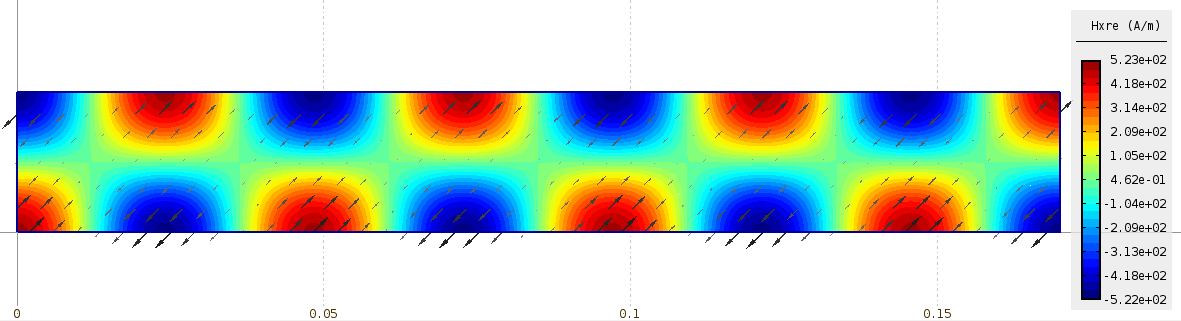
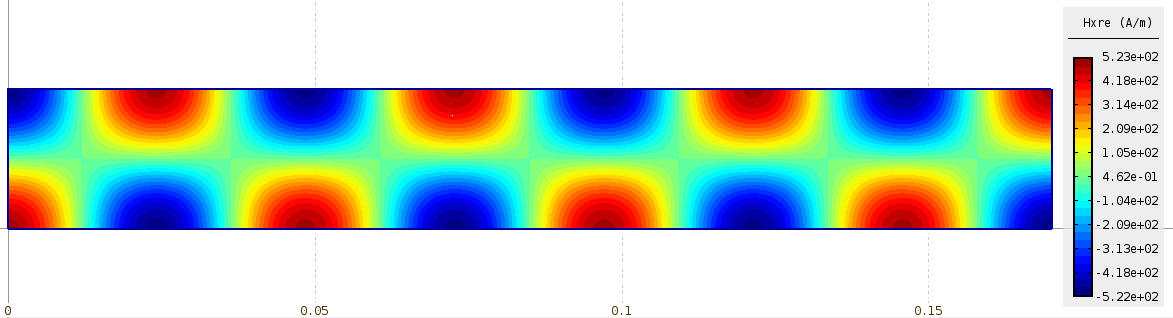
some figures changed to black and white, fix poynting vector in chapter simulation

diff --git a/Priloha3-kod.tex b/Priloha3-kod.tex
@@ -70,19 +70,30 @@ add_vector_form(new WeakFormsH1::VolumetricVectorForms::DefaultVectorFormConst(1
 Při řešení problémů vztahující se k~elektromagnetickému poli je možné použít na řešenou oblast několik typů okrajových podmínek, které se volí v~dialogu \uv{new boundary condition}. 
 
 \subsection*{Elektrické pole}
-Programový kód, který přísluší k~zadáni Dirichletovy podmínky na hranici $\Gamma$, je v~modulu zapsán následovně
+Programový kód, který přísluší k~zadáni Dirichletovy podmínky na hranici $\Gamma$, představuje v~modulu implementaci pomocí Dirichletova zdvihu.
+Řešení se nejprve formálně provede pro nulovou okrajovou podmínku. Poté se na pravou stranu rovnice matice tuhosti pronásobená zadanou
+hodnotou. 
 \begin{verbatim}
-if (boundary->type == PhysicFieldBC_RF_ElectricField)
-{
-    bc1.add_boundary_condition(new DefaultEssentialBCConst
-               (QString::number(i+1).toStdString(), boundary->value_real.number));
-    bc2.add_boundary_condition(new DefaultEssentialBCConst
-               (QString::number(i+1).toStdString(), boundary->value_imag.number));
-}
+EssentialBCs bc_1;
+EssentialBCs bc_2;
+
+bc_1.add_boundary_condition(new
+DefaultEssentialBCConst(QString::number(i+1).toStdString(),
+boundary->value_real.number));
+
+bc_2.add_boundary_condition(new
+DefaultEssentialBCConst(QString::number(i+1).toStdString(),
+boundary->value_real.number));
+
+initialPolynomialOrder = 1;
+
+Hermes::vector<Space *> space;
+space.push_back(new H1Space(mesh, bc_1, initialPolynomialOrder));
+space.push_back(new H1Space(mesh, bc_2, initialPolynomialOrder));
 \end{verbatim}
 
 \subsubsection*{Povrchová proudová hustota}
-Tato volba představuje Neumannovu okrajovou podmínku. Je pro ní potřeba definovat funkci, která vrací lineární formu dané okrajové podmínky
+Tato volba představuje Neumannovu okrajovou podmínku. Je pro ní potřeba registrovat funkci, která vrací lineární formu dané okrajové podmínky
 \begin{verbatim}
 if (boundary->type == PhysicFieldBC_RF_SurfaceCurrent)
 {
@@ -91,6 +102,7 @@ if (boundary->type == PhysicFieldBC_RF_SurfaceCurrent)
                 QString::number(i + 1).toStdString(),
                 - 2 * M_PI * Util::scene()->problemInfo()->frequency * boundary->value_imag.number,
                 HERMES_PLANAR));
+                
     if (fabs(boundary->value_real.number) > EPS_ZERO)
         add_vector_form_surf(new WeakFormsH1::SurfaceVectorForms::DefaultVectorFormSurf(1,
                 QString::number(i + 1).toStdString(),
@@ -135,19 +147,6 @@ class CustomMatrixFormSurfMatchedBoundary : public WeakForm::MatrixFormSurf
       return coeff * sqrt((eps - conductivity / frequency) / mu) * 
                               int_u_v<double, scalar>(n, wt, u, v);
     }
-
-    virtual Ord ord(int n, double *wt, Func<Ord> *u_ext[], Func<Ord> *u,
-                        Func<Ord> *v, Geom<Ord> *e, ExtData<Ord> *ext) const {
-    
-      return int_u_v<Ord, Ord>(n, wt, u, v);
-    }
-
-        // This is to make the form usable in rk_time_step().
-    virtual WeakForm::MatrixFormSurf* clone() {
-
-      return new CustomMatrixFormSurfMatchedBoundary(*this);
-    }
-
     private:
         scalar coeff, frequency;
 };
@@ -232,7 +231,7 @@ case PhysicFieldVariable_RF_PoyntingVectorX:
     SceneMaterialRF *marker = dynamic_cast<SceneMaterialRF *>(material);
     double mu = marker->permeability.number * MU0;
     double w = 2 * M_PI * Util::scene()->problemInfo()->frequency;
-    node->values[0][0][i] = - 0.5 * ((value2[i] * 1/(w*mu) * dudx1[i]) 
+    node->values[0][0][i] = 0.5 * ((value2[i] * 1/(w*mu) * dudx1[i]) 
                                    - (value1[i] * 1/(w*mu) * dudx2[i]));
 }
 case PhysicFieldVariable_RF_PoyntingVectorY:

diff --git a/Simulace.tex b/Simulace.tex
@@ -246,12 +246,12 @@ ze kterého lze vyjádřit $x$-ová a $y$-ová složka magnetické indukce. $\fa
 \end{displaymath}
 kde po dosazení za $\faz E_z$ můžeme vyjádřit reálnou a imaginární složku magnetické indukce ve směru $x$, které lze pak implemetovat do modulu
 \begin{equation}
-	B_{x\Re} = -\frac{1}{\mj\omega}\frac{\partial E_{z\Im}}{\partial y}, \qquad \qquad B_{x\Im} = \frac{1}{\mj\omega}\frac{\partial E_{z\Re}}{\partial y}.
+	B_{x\Re} = -\frac{1}{\omega}\frac{\partial E_{z\Im}}{\partial y}, \qquad \qquad B_{x\Im} = \frac{1}{\omega}\frac{\partial E_{z\Re}}{\partial y}.
 	\label{rce:sim_flux_x_re}
 \end{equation}
 Z~rovnice (\ref{rce:sim_zobrazeni_flux}) je pak dále možné stejným způsobem odvodit vztahy pro obě složky indukce ve směru $y$
 \begin{equation}
-	B_{y\Re} = \frac{1}{\mj\omega}\frac{\partial E_{z\Im}}{\partial x}, \qquad \qquad B_{y\Im} = -\frac{1}{\mj\omega}\frac{\partial E_{z\Re}}{\partial x}.
+	B_{y\Re} = \frac{1}{\omega}\frac{\partial E_{z\Im}}{\partial x}, \qquad \qquad B_{y\Im} = -\frac{1}{\omega}\frac{\partial E_{z\Re}}{\partial x}.
 	\label{rce:sim_flux_y_im}
 \end{equation}
 Nakonec zbývá vyjádřit rozložení modulu magnetické indukce. Pro jeho velikost platí
@@ -284,26 +284,29 @@ Je zřejmé, že $N_z$ je dle výrazu (\ref{rce:sim_poynting_vec_rozepsany}) nul
 \begin{displaymath}
 	\faz N_x = -(E_{z\Re} + \mj E_{z\Im})\cdot (H_{y\Re} + \mj H_{y\Im}),
 \end{displaymath}
-což ve výsledku vede na vztah
 \begin{displaymath}
-	\faz N_x = E_{z\Im} H_{y\Im} - E_{z\Re} H_{y\Re} - \mj (E_{z\Re} H_{y\Im} + E_{z\Im} H_{y\Re}).
+	\faz N_x = - E_{z\Re} H_{y\Re} + E_{z\Im} H_{y\Im} - \mj (E_{z\Re} H_{y\Im} + E_{z\Im} H_{y\Re}).
+\end{displaymath}
+Protože Poyntingův vektor reprezentuje hustotu výkonu elektromagnetického pole, je nutné aby jeho hodnota byla pouze reálné číslo.
+\begin{displaymath}
+	N_x = - E_{z\Re} H_{y\Re} + E_{z\Im} H_{y\Im}.
 \end{displaymath}
 Pro Poyntingův vektor ve směru $y$ analogicky vychází
 \begin{displaymath}
 	\faz N_y = \faz E_z \faz H_x,
 \end{displaymath}
 \begin{displaymath}
-	\faz N_y = E_{z\Re} H_{x\Re} - E_{z\Im} H_{x\Im} + \mj (E_{z\Re} H_{x\Im} + E_{z\Im} H_{x\Re}).
+	N_y = E_{z\Re} H_{x\Re} - E_{z\Im} H_{x\Im}.
 \end{displaymath}
 Pro výslednou hodnotu Poyntingova vektoru na řešené oblasti $\Omega$ platí
 \begin{displaymath}
-	N = \sqrt{N_{x}^{2} + N_{y}^{2}} = \sqrt{(E_{z\Im} H_{y\Im} - E_{z\Re} H_{y\Re})^{2} + (E_{z\Im} H_{x\Im} - E_{z\Re} H_{x\Re})^{2}}.
+	N = \sqrt{N_{x}^{2} + N_{y}^{2}} = \sqrt{(E_{z\Im} H_{y\Im} - E_{z\Re} H_{y\Re})^{2} + (E_{z\Re} H_{x\Re} - E_{z\Im} H_{x\Im})^{2}}.
 \end{displaymath}
 
 \subsection*{Jouleovy ztráty}
 Rozložení ztrát v~řešené oblasti odpovídá součinu proudové hustoty $J$ a hodnoty intenzity elektrického pole $E$ 
 \begin{displaymath}
-	P_j = \faz J \cdot \faz E = \sigma \faz E^{2} = \sigma \sqrt{E_{z\Re}^{2} + E_{z\Im}^{2}}\unit{[J/m^{3}]}.
+	P_j = \faz J \cdot \faz E = \sigma \faz E^{2} = \sigma \big(E_{z\Re}^{2} + E_{z\Im}^{2}\big)\unit{[J/m^{3}]}.
 \end{displaymath}
 
 \section{Numerická integrace}

diff --git a/Pred_uvodem.tex b/Pred_uvodem.tex
@@ -1,16 +1,17 @@
 % !TeX root = Main.tex
 
 \renewcommand\thepage{}
-\begin{figure}[!h]
-	\centering
-	\includegraphics[width=15cm]{zadani1.png}
-\end{figure}
-\titlepage
-\begin{figure}[!h]
-	\centering
-	\includegraphics[width=15cm]{zadani2.png}
-\end{figure}
-\newpage
+
+%\begin{figure}[!h]
+%	\centering
+%	\includegraphics[width=15cm]{zadani1.png}
+%\end{figure}
+%\titlepage
+%\begin{figure}[!h]
+%	\centering
+%	\includegraphics[width=15cm]{zadani2.png}
+%\end{figure}
+%\newpage
 
 \section*{Anotace}
 Předložená diplomová práce se zabývá principem šíření elektromagnetických vln. Hlavní cíl práce představuje realizace softwarové aplikace s~využitím knihovny Hermes2D.

diff --git a/Priklad.tex b/Priklad.tex
@@ -48,7 +48,7 @@ Po spuštění řešení pro zadanou frekvenci $f_0 = 9\unit{GHz}$ získáme pom
 \begin{figure}[!h]
 	\centering
 	\includegraphics[width=15cm]{priklad_R100_Hre.png}
-	\caption{Reálná složka intenzity magnetického pole ve směru $x$ (zobrazené vektory).}
+	\caption{Reálná složka intenzity magnetického pole ve směru $x$.}
 	\label{obr:priklad_R100_Hre}
 \end{figure}
 \begin{figure}[!h]
